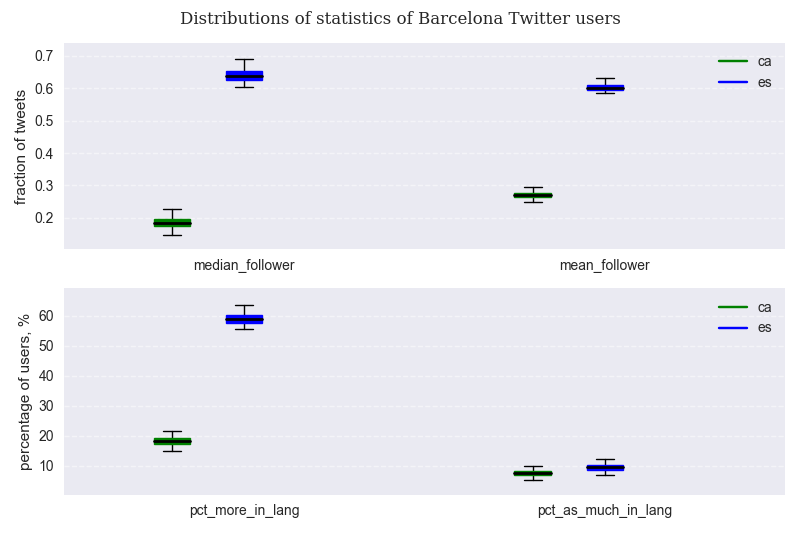
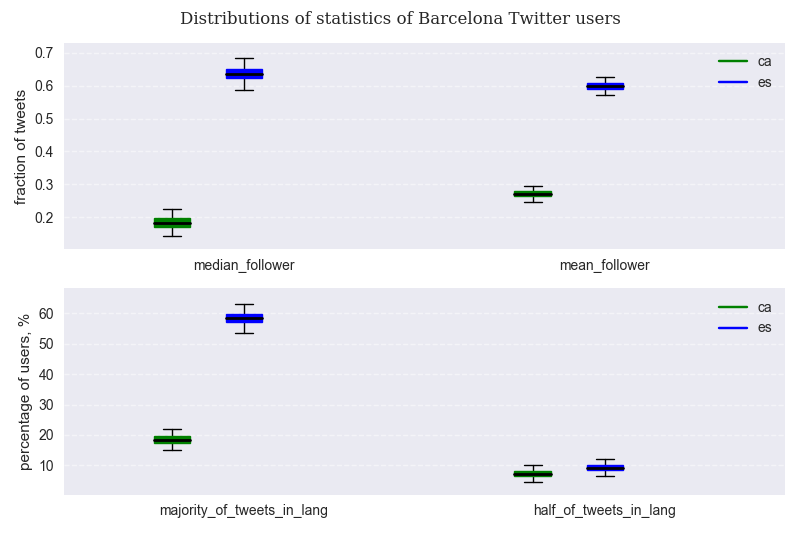
Update documentation

diff --git a/first-post.html b/first-post.html
@@ -48,6 +48,9 @@
 			<a href="https://pgervila.github.io/tag/bilingualism.html" rel="tag">bilingualism</a>
 		</span>
 		<span itemprop="keywords">
+			<a href="https://pgervila.github.io/tag/statistics.html" rel="tag">statistics</a>
+		</span>
+		<span itemprop="keywords">
 			<a href="https://pgervila.github.io/tag/barcelona.html" rel="tag">Barcelona</a>
 		</span>
 	</div>
@@ -1058,7 +1061,7 @@ h6:hover .anchor-link {
 </div>
 <div class="inner_cell">
 <div class="text_cell_render border-box-sizing rendered_html">
-<h2 id="Methodology">Methodology<a class="anchor-link" href="#Methodology">¶</a></h2><p>10 Twitter accounts that we deem representative of the cultural spectrum of the city of Barcelona are selected. The criteria used for the selection are the following:</p>
+<h2 id="Methodology">Methodology<a class="anchor-link" href="#Methodology">¶</a></h2><p>10 Twitter accounts that we deem representative of the cultural spectrum of the city of Barcelona are selected (we will refer to them as the 'root accounts'). The criteria used for the selection are the following:</p>
 <ul>
 <li>Accounts must be relevant ( hundreds of thousands of followers )</li>
 <li>Accounts must be related to the city of Barcelona as much as possible</li>
@@ -1101,7 +1104,7 @@ h6:hover .anchor-link {
 </div>
 <div class="inner_cell">
 <div class="text_cell_render border-box-sizing rendered_html">
-<h2 id="Twitter-language-settings-per-root-accounts">Twitter language settings per root accounts<a class="anchor-link" href="#Twitter-language-settings-per-root-accounts">¶</a></h2><p>A first indication of each language relative relevance is provided by the language settings of the account of each follower. In most cases, the default language ( worked out by algos based on computer settings and installations ) will be accepted by users unless they strongly prefer an alternative language. Therefore, in this case there is a strong bias towards the dominant official language: Spanish is still the default language for virtually all commercial computers or smartphones sold in Barcelona. Nevertheless, it is possible ( and simple ) to change the settings of a Twitter account to Catalan language.</p>
+<h2 id="Twitter-language-settings-per-root-account">Twitter language settings per root account<a class="anchor-link" href="#Twitter-language-settings-per-root-account">¶</a></h2><p>A first indication of each language relative relevance is provided by the language settings of the account of each follower. In most cases, the default language ( worked out by algos based on computer settings and installations ) will be accepted by users unless they strongly prefer an alternative language. Therefore, in this case there is a strong bias towards the dominant official language: Spanish is still the default language for virtually all commercial computers or smartphones sold in Barcelona. Nevertheless, it is possible ( and simple ) to change the settings of a Twitter account to Catalan language.</p>
 <p><img alt="" src="figures/Barcelona/lang_settings_in_Barcelona.png" style="width: 800px; height: auto; max-width: 100%;"/></p>
 <p>Results show that Spanish is by far the default language for most users from all accounts, with a peak of more than 80% for <strong>@hola</strong> followers and a minimum of almost 60% for <strong>@VilaWeb</strong> followers. Even in the case of <strong>@Vilaweb</strong>, only 3 users out of 10 on average have their language settings in Catalan. In some cases, we assume users are not even aware they can switch the setting. It's the language inertia so common in diglossic environments, where it is assumed that some activities or services are provided in one language only.</p>
 </div>
@@ -1111,7 +1114,7 @@ h6:hover .anchor-link {
 </div>
 <div class="inner_cell">
 <div class="text_cell_render border-box-sizing rendered_html">
-<h2 id="Percentage-of-tweets-in-each-language">Percentage of tweets in each language<a class="anchor-link" href="#Percentage-of-tweets-in-each-language">¶</a></h2><p>In order to have an idea of the relative weight of each language per account, since every follower will contribute with the same amount of tweets to the final sample per account, we can compute the percentage of tweets in each language per account by considering all tweets from the account followers and computing the ratio in each language.</p>
+<h2 id="Percentage-of-tweets-in-each-language-per-root-account">Percentage of tweets in each language per root account<a class="anchor-link" href="#Percentage-of-tweets-in-each-language-per-root-account">¶</a></h2><p>In order to have an idea of the relative weight of each language per account, since every follower will contribute with the same amount of tweets to the final sample per account, we can compute the percentage of tweets in each language per account by considering all tweets from the account followers and computing the ratio in each language.</p>
 <p><img alt="" src="figures/Barcelona/percentage_of_each_lang_per_account_in_Barcelona.png" style="width: 800px; height: auto; max-width: 100%;"/></p>
 <p>We observe that there is a higher proportion of tweets in Catalan as compared to the percentage of lang settings in Catalan. The conclusion is that some users that regularly tweet also in Catalan have their settings in Spanish ( a default option they feel comfortable enough with). One of the most telling results from this graph is that the majority of (re)tweets from followers of <strong>@VilaWeb</strong> (widely considered a Catalan nationalist publication) are in Spanish.</p>
 </div>
@@ -1121,10 +1124,10 @@ h6:hover .anchor-link {
 </div>
 <div class="inner_cell">
 <div class="text_cell_render border-box-sizing rendered_html">
-<h2 id="Language-choice-distribution-of-resident-followers-per-account">Language choice distribution of resident followers per account<a class="anchor-link" href="#Language-choice-distribution-of-resident-followers-per-account">¶</a></h2><p>Language choice percentages give us a general idea of language preference, but we have yet to explore how this preference is actually distributed among users. Do most followers (re)tweet in both languages for all accounts? What proportion of followers tweet in only or mostly one language for each account?</p>
+<h2 id="Language-choice-distribution-of-resident-followers-per-root-account">Language choice distribution of resident followers per root account<a class="anchor-link" href="#Language-choice-distribution-of-resident-followers-per-root-account">¶</a></h2><p>Language choice percentages give us a general idea of language preference, but we have yet to explore how this preference is actually distributed among users. Do most followers (re)tweet in both languages for all accounts? What proportion of followers tweet in only or mostly one language for each account?</p>
 <p>Since we have 40 classified tweets per selected follower, we can compute the ratio of tweets in each language per follower. After sorting all user ratios per language and per account, we can visualize box plots of the data. <a href="https://www.wellbeingatschool.org.nz/information-sheet/understanding-and-interpreting-box-plots">Box plots</a> are a great way to quickly visualize distributions. In a box plot, data is divided into 4 groups by its 3 quartiles. Each box contains 50% of the data as determined by the first and the third quartiles, and is divided in two parts by the <em>median</em> of the sorted data (the middle point from lower to higher value, and also its second quartile). The interval defined by the upper and lower whiskers contains almost all of the data, except for those values that are considered statistical outliers. We plot two box plots per account: one for Catalan ratios, another for Spanish ones ( English is not considered here ).</p>
 <p><img alt="" src="figures/Barcelona/lang_distribs_per_acc_in_Barcelona.png" style="width: 800px; height: auto; max-width: 100%;"/></p>
-<p>The first thing we should point out is how, for most accounts, the median values (black line inside boxes) are mostly far away from a balanced result ( 0.5 ), but especially for those that tweet in Spanish ( the leftmost four ). For these accounts, the distributions are very skewed, showing a relatively large number of users that tweet only or almost only in Spanish. Only in the case of <strong>@VilaWeb</strong> followers, a more even distribution for both languages is found. As a consequence, while the median follower of <strong>@hola</strong> does not tweet in Catalan at all, and that of <strong>@sport</strong> only 5% of the times, the median follower of <strong>@VilaWeb</strong> tweets almost 40% of the times in Catalan. It is interesting to notice that while users that tweet only or almost only in Catalan are non existent or considered outliers for the accounts that tweet in Spanish, users that tweet only or almost only in Spanish are not outliers for any of the accounts under consideration. In any case, all median followers (re)tweet more often in Spanish than in Catalan. In addition, they do so by very consistent margins, since all median followers (re)tweet more than half of the times in Spanish, even in the case of <strong>@VilaWeb</strong>.</p>
+<p>The first thing we should point out is how, for most accounts, the median values (black line inside boxes) are mostly far away from a balanced score ( 0.5 ), but especially for those that tweet in Spanish ( the leftmost four ). For these accounts, the distributions are very skewed, showing a relatively large proportion of users that tweet only or almost only in Spanish. Only in the case of <strong>@VilaWeb</strong> followers, a more even distribution for both languages is found. As a consequence, while the median follower of <strong>@hola</strong> does not tweet in Catalan at all, and that of <strong>@sport</strong> only 5% of the times, the median follower of <strong>@VilaWeb</strong> tweets almost 40% of the times in Catalan. It is interesting to notice that while users that tweet only or almost only in Catalan are non existent or considered outliers for the accounts that tweet in Spanish, users that tweet only or almost only in Spanish are not outliers for any of the accounts under consideration. In any case, all median followers (re)tweet more often in Spanish than in Catalan. In addition, they do so by very consistent margins, since all median followers (re)tweet more than half of the times in Spanish, even in the case of <strong>@VilaWeb</strong>.</p>
 <p>The described data can also be explored in numerical form thanks to the following tables, where 95% confidence intervals for both the mean and the median of each account and for each language are also provided:</p>
 <p><strong>Catalan language</strong>:
 <img alt="" class="center" src="figures/Barcelona/data_stats_cat_per_account_CA.png" style="width: 818px; height: auto; max-width: 100%;"/></p>
@@ -1138,10 +1141,11 @@ h6:hover .anchor-link {
 </div>
 <div class="inner_cell">
 <div class="text_cell_render border-box-sizing rendered_html">
-<h2 id="Language-choice-distribution-at-city-level:-the-weighted-sample-of-account-followers-(-stratified-sampling-)">Language choice distribution at city level: the weighted sample of account followers ( stratified sampling )<a class="anchor-link" href="#Language-choice-distribution-at-city-level:-the-weighted-sample-of-account-followers-(-stratified-sampling-)">¶</a></h2><p>Since we cannot possibly sample all accounts that have a link with the city of Barcelona, we have to make the hypothesis that the the chosen accounts are collectively exhaustive of the population of Barcelona-resident Twitter users (i.e., each Barcelona-resident Twitter user is also a follower of at least one of the chosen accounts). In order to draw statistically relevant linguistic conclusions for the city as a whole, we have to bring samples of followers of different accounts together, according to the relative relevance or weight of each account. This can be achieved through STRATIFIED SAMPLING: by sampling followers from each account, in such a way that the sample size for each account is proportional to the relative weight of the account in terms of the number of resident followers. We can then join all subsamples by considering unique agents only. Once the weighted sample of followers is calculated, we can associate observed lang proportions to each user and therefore describe the aggregated linguistic choices at city level. We can compute the resulting distribution for each language choice as well as estimate the average and the median of the weighted samples. 
-The resulting distributions for each language are visualized in the following figure. It is important to point out how different, even in the case of the weighted distribution, the Catalan and Spanish distributions are: whereas the mode of the Catalan use distribution occurs for proportions of tweets in that language between 0 and 5%, in the case of Spanish the mode is just on the opposite end; that is, for percentage of use comprised between 95% and 100%. In addition, whereas 30% of city users write less than 5% of tweets in Catalan, only 3% of users write less than 5% of tweets in Spanish. This means that a significant part of the population barely uses Catalan for tweeting, whereas Spanish - though in different degrees - is used by almost everybody in the city. On the other hand, only less than 20% of city residents write the majority of their tweets in Catalan, whereas approximately 60% of them tweet the majority of times in Spanish.</p>
+<h2 id="Language-choice-distribution-at-city-level:-the-weighted-sample-of-account-followers-(-stratified-sampling-)">Language choice distribution at city level: the weighted sample of account followers ( stratified sampling )<a class="anchor-link" href="#Language-choice-distribution-at-city-level:-the-weighted-sample-of-account-followers-(-stratified-sampling-)">¶</a></h2><p>In order to draw statistically relevant linguistic conclusions for the city as a whole, we have to bring samples of followers of different root accounts together, by weighing according to the relative size or weight of each account in terms of resident followers. Since we cannot possibly sample all accounts that have a link with the city of Barcelona, we have to make the hypothesis that the chosen root accounts are collectively exhaustive of the population of Barcelona-resident Twitter users (i.e., each Barcelona-resident Twitter user is also a follower of at least one of the chosen accounts. Given the criteria employed for the selection of the root accounts, we consider that this hypothesis is an acceptable approximation).</p>
+<p>We can then join all subsamples by considering unique agents only. Once the weighted sample of followers is calculated, we can associate their observed lang proportions to each user and describe the aggregated linguistic choices at city level. We can compute the resulting distribution for each language choice as well as estimate the average and the median of the weighted sample. 
+ The resulting distributions for each language are visualized in the following figure. It is important to point out how different, even in the case of the weighted distribution, the Catalan and Spanish distributions are: whereas the mode of the Catalan use distribution occurs for proportions of tweets in that language between 0 and 5%, in the case of Spanish the mode is just on the opposite end; that is, for percentage of use comprised between 95% and 100%. In addition, whereas 30% of city users write less than 5% of tweets in Catalan, only 3% of users write less than 5% of tweets in Spanish. This means that a significant part of the population barely uses Catalan for tweeting, whereas Spanish - though in different degrees - is used by almost everybody in the city. On the other hand, only less than 20% of city residents write the majority of their tweets in Catalan, whereas approximately 60% of them tweet the majority of times in Spanish.</p>
 <p><img alt="" src="figures/Barcelona/hist_lang_choice_weighted_sample_followers.png" style="width: 800px; height: auto; max-width: 100%;"/></p>
-<p>Notice how the values from the previous picture are just the result of specific sample averages, without any notion of value uncertainty: the shown distributions are derived from the <em>observed</em> account weights ( proportion of city residents per account) and the <em>observed</em> language proportions for each user as computed from unique samples each. In reality, both types of proportions are <strong>random variables</strong> for which we only have access to one realization. In order to have a reliable statistical view on the statistics at city level and define confidence intervals for average and median values at the aggregated level, we have to apply the <strong>central limit theorem</strong> to simulate random variable realizations a significant number of times, both for account weights and language proportions per user. We will simulate the value of accounts' relative weights a 100 times, and each user's language proportions another 100. This results in 10000 different <em>virtual</em> weighted samples, from which we can easily construct confidence intervals for the relevant statistics. See <a href="#Appendix_">appendix</a> for more details on the procedure.</p>
+<p>Notice how the values from the previous picture are just the result of specific sample averages, without any notion of value uncertainty: the shown distributions are derived from the <em>observed</em> account weights ( proportion of city residents per account) and the <em>observed</em> language proportions for each user as computed from unique samples each. In reality, both types of proportions are <strong>random variables</strong> for which we only have access to one realization. In order to have a reliable statistical view on the statistics at city level and define confidence intervals for average and median values at the aggregated level, we have to apply the <strong>central limit theorem</strong> to simulate random variable realizations a significant number of times, both for account weights and language proportions per user. We will simulate the value of accounts' relative weights a 100 times, and each user's language proportions another 100. This results in 10000 different <em>virtual</em> weighted samples, from which we can easily construct confidence intervals for the relevant statistics. See the <a href="#Appendix_">appendix</a> for more details on the procedure.</p>
 <p>Now we can plot the distributions of the median and mean users for each language, as well as that of the percentages of users that prefer a given language. Again, distributions are encapsulated in the form of box plots. The lower and upper box whiskers are set on the 1% and the 99% percentiles of each distribution: extreme values that fall beyond these limits are not shown.</p>
 <p><img alt="" src="figures/Barcelona/weighted_sample_indicators_distribs_in_Barcelona.png" style="width: 800px; height: auto; max-width: 100%;"/></p>
 <p>We observe that, from a Catalan-speaking perspective, the median follower from Barcelona is extremely unlikely (less than 0.1%) to tweet more than 23% of the times in Catalan. On the contrary, the median follower from a Spanish-speaking perspective is extremely unlikely to tweet less than 57% of the times in Spanish. More importantly, in an extreme best case scenario for Catalan, only about 23.5% of users will prefer this language to tweet, whereas even in an extreme worst case scenario for Spanish, 53% of Barcelona residents will prefer this language for their tweets. The discussed values can be more easily checked in the following table</p>
@@ -1180,7 +1184,8 @@ The resulting distributions for each language are visualized in the following fi
 </div>
 <div class="inner_cell">
 <div class="text_cell_render border-box-sizing rendered_html">
-<h1 id="Appendix"><em>Appendix</em><a class="anchor-link" href="#Appendix">¶</a></h1><h3 id="Computation-of-distribution-of-language-preference-for-root-accounts">Computation of distribution of language preference for root accounts<a class="anchor-link" href="#Computation-of-distribution-of-language-preference-for-root-accounts">¶</a></h3><ol>
+<h1 id="Appendix"><em>Appendix</em><a class="anchor-link" href="#Appendix">¶</a></h1><h3 id="Computation-of-the-distributions-of-language-choice-by-followers-of-root-accounts">Computation of the distributions of language choice by followers of root accounts<a class="anchor-link" href="#Computation-of-the-distributions-of-language-choice-by-followers-of-root-accounts">¶</a></h3><p>The following are the steps that have to be executed in order to obtain the distribution of language choice among followers of each root account.</p>
+<ol>
 <li><p>Select a root account</p>
 </li>
 <li><p>For the selected root account, obtain a sample of <em>at least</em> 100 city-resident followers with a sufficient number of (re)tweets and followers. It is crucial to ensure that the sample is indeed as random as possible. Since in the process of selecting tweets from users we will be forced to apply several filters in order to ensure reliability of the data, it is important to discuss the potential sources of bias one by one.</p>
@@ -1200,17 +1205,17 @@ The resulting distributions for each language are visualized in the following fi
 </li>
 <li><p>Each tweet from a given user and from a given language perspective is considered as a random Bernoulli variable. Therefore each list of tweets per follower of size n = 40 is a sample from a binomial distribution, in which <em>success</em> is a tweet written in a particular language $ L $ and <em>failure</em> any tweet written in another language. For each relevant follower $ i $ and each applicable language, compute the sample mean $\bar p_{i,L}$ ( an estimate of the success probability $p_{i,L}$). We call this sample mean the follower's <em>linguistic mean</em>. Each follower will have as many linguistic means as different languages are taken into consideration.</p>
 </li>
-<li><p>For each language, analyze the statisitcal properties of the distribution of the linguistic means of all root account considered followers.</p>
+<li><p>For each language, analyze the statisitcal properties of the distribution of the linguistic means of all considered root-account followers.</p>
 </li>
 <li><p>Repeat for all root accounts</p>
 </li>
 </ol>
-<h3 id="Sampling-simulation-of--root-account's-relative-weights-and-followers'-linguistic-proportions-to-compute-confidence-intervals-for-city-level-statistics">Sampling simulation of  root account's relative weights and followers' linguistic proportions to compute confidence intervals for city level statistics<a class="anchor-link" href="#Sampling-simulation-of--root-account's-relative-weights-and-followers'-linguistic-proportions-to-compute-confidence-intervals-for-city-level-statistics">¶</a></h3><p>In order to come up with useful results of linguistic choice at city level, we have to sample the individual linguistic choices from a population that is itself defined as the weighted average of the subpopulations of root account followers according to the relative relevance of each account. Computing statistics for such population using analytical formulas is much more complex than doing so by using computer random simulation.</p>
-<p>The advantage of using a statistics simulation is that we can consider each account's relative weight ( its relative proportion of resident followers ) and each user's language proportion as random variables that can be repeatedly sampled in order to construct confidence intervals for aggregated statistics such as the mean or the median.</p>
+<h3 id="Estimation-of-language-choice-confidence-intervals-at-city-level-by-resampling-of--groups-relative-sizes-and-followers'-linguistic-proportions">Estimation of language choice confidence intervals at city level by resampling of  groups relative sizes and followers' linguistic proportions<a class="anchor-link" href="#Estimation-of-language-choice-confidence-intervals-at-city-level-by-resampling-of--groups-relative-sizes-and-followers'-linguistic-proportions">¶</a></h3><p>In order to come up with useful results of linguistic choice at city level, we have to sample the individual linguistic choices from a population that is itself defined as the weighted average of the subpopulations of root account followers according to the relative size of each group. $$ \bar x_{city} = \sum_{g=1}^{10} \frac{N_{acc}}{N}\bar x_{acc}  $$</p>
+<p>Since both individual linguistic choices and accounts' relative sizes can only be estimated, computing statistics for such population using analytical formulas is much more complex than doing so by using computer simulation. The advantage of using a statistical simulation is that we can consider each account's relative size ( its relative proportion of resident followers ) and each user's language proportion as random variables that can be repeatedly resampled in order to construct confidence intervals for aggregated statistics such as the mean or the median.</p>
 <p>For each root account, we observe a given proportion of followers that are also Barcelona residents. This proportion is an <strong>estimate</strong> of the actual proportion of account followers that live in Barcelona ( the <strong>actual proportions</strong> are unknown to us since we only streamed a sample of the actual populations). Similarly, for each follower/user that is also a Barcelona resident, we observe a given proportion of tweets written in a given language out of a sample of n = 40 tweets: again, these proportions are <strong>estimates</strong> of the actual users' language preferences.</p>
-<p>A sample is typically considered to be large when $n &gt;= 30$. In our case, the distributions we are dealing with are actually Binomial distributions where the actual expectation value $p_i$ can only be estimated. Since in the case of the proportion of residents we have samples with hundreds or thousands of elements and in the case of proportions of language use we have $n = 40 $ tweets for each follower/user, we can apply the <strong>central limit theorem</strong>, that implies that the distribution of each proportion is well approximated by a normal distribution when $n$ is large. The normal distribution of each proportion will then be characterized by the observed proportion ( the sample mean $\bar Y_i = \bar p_i$ ) and the corresponding standard error computed as $SE(\bar p_i) = \frac{S_{y_i}}{\sqrt{n}} = \sqrt{\frac{\bar p_i * (1 - \bar p_i)}{n}}$ , where $S_{y_i}$ is the sample standard deviation. Therefore, instead of using the observed value of the proportion as a fixed value, we can consider it as the realization of a random variable with a normal distribution $$ \sigma(\bar p_i, {\frac{\bar p_i * (1 - \bar p_i)}{n}})$$</p>
+<p>A sample is typically considered to be large when $n &gt;= 30$. In our case, the distributions we are dealing with are actually Binomial distributions where the actual expectation value $p_i$ can only be estimated. Since in the case of the proportion of residents we have samples with hundreds or thousands of elements and in the case of proportions of language use we have $n = 40 $ tweets for each follower/user, we can apply the <strong>central limit theorem</strong>, that implies that the distribution of each proportion is well approximated by a normal distribution when $n$ is large. The normal distribution of each proportion will then be characterized by the observed proportion ( the sample mean $\bar Y_i = \bar p_i$ ) and the corresponding standard error computed as $SE(\bar p_i) = \frac{S_{y_i}}{\sqrt{n}} = \sqrt{\frac{\bar p_i * (1 - \bar p_i)}{n}}$ , where $S_{y_i}$ is the sample standard deviation. Therefore, instead of using the observed value of the proportion as a fixed value, we can consider it as the realization of a random variable with the following normal distribution $$ X \sim \mathcal{N}(\bar p_i, {\frac{\bar p_i * (1 - \bar p_i)}{n}}) $$</p>
 <p>As a consequence, the actual proportions will be within a confidence interval centered on the <em>observed</em> sample mean. We can construct 99% confidence intervals for the proportions using the standard error value by sampling as many times as needed the described normal distributions for the proportions of residents per account and for those of language use.</p>
-<p>THE ISSUE OF OVERLAPPING !! FOLLOWERS COMMON TO MORE ACCOUNTS WILL BE OVERREPRESENTED IN THE STRATIFIED SAMPLE !! THERE ARE NO SAMPLED USERS THAT ARE COMMON TO ALL ACCOUNTS, BUT THERE ARE MANY USERS COMMON TO TWO OR MORE ACCOUNTS !</p>
+<p>Notice that the subsampling process we have described is very similar to <a href="https://en.wikipedia.org/wiki/Stratified_sampling">stratified sampling</a>, but with a major difference: our strata are not <strong>mutually exclusive</strong>, since some followers are common to more than one root account. The consequence is that common followers will be overrepresented in the global sample, because they are more likely to be sampled. In order to avoid overrepresentation of common followers, the solution is to ensure they are sampled them only once. The algorithm to do that needs first to sort the group of followers from smaller to larger. we start by sampling from the smallest group of followers and remove all followers that are also followers of other accounts from all groups that have not yet been sampled (so that they are not more likely to be sampled than other followers). we then move to the second smallest group and repeat the same operation as before for all remaining groups. this way we ensure common followers will not be overrepresented in the  sample at city level. notice that larger groups will be effectively reduced in size after removing common users and their relative weight will have to be adapted accordingly (See 'compute_weighted_sample_users' method from ProcessTweetData class in Github <a href="https://github.com/pgervila/Explore_bilingualism_in_cities">repo</a></p>
 <p>To summarize, the steps are the following:</p>
 <ol>
 <li><p><strong>How to obtain a weighted sample of followers from all accounts</strong>. Each account will contribute with a sample of followers. A minimum size for the sample of account followers is considered for the least popular account. The remaining accounts' sample sizes are computed multiplying the minimum size by a factor that is the ratio of the estimated proportion of resident followers of each root account to the estimated proportion of resident followers of the least popular root account in the city.</p>
@@ -1223,17 +1228,6 @@ The resulting distributions for each language are visualized in the following fi
 <p>Since each simulation is taken as independently and identically distributed (i.i.d.), this results in 10000 different weighted samples per each language</p>
 </li>
 </ol>
-</div>
-</div>
-</div>
-<div class="cell border-box-sizing code_cell rendered">
-<div class="input">
-<div class="prompt input_prompt">In [ ]:</div>
-<div class="inner_cell">
-<div class="input_area">
-<div class=" highlight hl-ipython3"><pre><span></span> 
-</pre></div>
-</div>
 </div>
 </div>
 </div>

diff --git a/tag/statistics.html b/tag/statistics.html
@@ -1,0 +1,102 @@
+<!DOCTYPE html>
+<html lang="en">
+<head>
+	<meta charset="utf-8">
+	<title>statistics — CONTRASUBERNA</title>
+	<meta name="description" content="All posts which refer to tag statistics">
+	<meta name="author" content="Paolo Gervasoni">
+	<meta name="viewport" content="width=device-width, initial-scale=1.0">
+	<!-- Le HTML5 shim, for IE6-8 support of HTML elements -->
+	<!--[if lt IE 9]>
+		<script src="https://pgervila.github.io/theme/html5.js"></script>
+		<![endif]-->
+	<link href="https://pgervila.github.io/theme/css/ipython.css" rel="stylesheet">
+	<link href="//maxcdn.bootstrapcdn.com/bootstrap/3.2.0/css/bootstrap.min.css" rel="stylesheet">
+	<link href="//maxcdn.bootstrapcdn.com/font-awesome/4.1.0/css/font-awesome.min.css" rel="stylesheet">
+	<link href="//maxcdn.bootstrapcdn.com/bootswatch/3.2.0/simplex/bootstrap.min.css" rel="stylesheet">
+	<link href="https://pgervila.github.io/theme/css/local.css" rel="stylesheet">
+	<link href="https://pgervila.github.io/theme/css/pygments.css" rel="stylesheet">
+</head>
+<body>
+<div class="container">
+	<div class="page-header">
+		<h1><a href="https://pgervila.github.io/">CONTRASUBERNA</a>
+			<br>	</div>
+	<div class="row">
+		<div class="col-md-8 col-md-offset-2">
+<h1>Tag <small>statistics</small></h1>
+<table class="table">
+    <tbody>
+        <tr>
+        <td>25 Jun 2018</td>
+        <td><a href='https://pgervila.github.io/first-post.html'>Exploring language choice in Barcelona with Twitter and Python</a></td>
+        </tr>
+    </tbody>
+</table>
+		</div>
+	</div> 	<!-- <hr> -->
+</div> <!-- /container -->
+<footer class="aw-footer bg-danger">
+	<div class="container"> <!-- footer -->
+		<div class="row">
+			<div class="col-md-10 col-md-offset-1">
+				<div class="row">
+					<div class="col-md-3">
+						<h4>Navigation</h4>
+						<ul class="list-unstyled my-list-style">
+							<li><a href="https://pgervila.github.io">CONTRASUBERNA</a></li>
+							<li><a href="https://pgervila.github.io/feeds/all.atom.xml" type="application/atom+xml"><i class="fa fa-rss "></i> atom</a></li>
+						</ul>
+					</div>
+					<div class="col-md-3">
+						<h4>Author</h4>
+						<ul class="list-unstyled my-list-style">
+							<li><a href="#">You can add links in your config file</a></li>
+							<li><a href="#">Another social link</a></li>
+						</ul>
+					</div>
+					<div class="col-md-3">
+						<h4>Categories</h4>
+						<ul class="list-unstyled my-list-style">
+							<li><a href="https://pgervila.github.io/category/posts.html">posts (3)</a></li>
+						</ul>
+					</div>
+					<div class="col-md-3">
+						<h4>Links</h4>
+						<ul class="list-unstyled my-list-style">
+							<li><a href="http://getpelican.com/">Pelican</a></li>
+							<li><a href="http://python.org/">Python.org</a></li>
+							<li><a href="https://twitter.com/">Twitter</a></li>
+						</ul>
+					</div>
+				</div>
+			</div>
+		</div>
+	</div>
+</footer>
+<div class="container">
+	<div class="row">
+		<div class="col-md-12 text-center center-block aw-bottom">
+			<p>&copy; Paolo Gervasoni 2016</p>
+			<p>Powered by Pelican</p>
+		</div>
+	</div>
+</div>
+<!-- JavaScript -->
+<script src="https://code.jquery.com/jquery-2.1.1.min.js"></script>
+<script src="//maxcdn.bootstrapcdn.com/bootstrap/3.2.0/js/bootstrap.min.js"></script>
+<script type="text/javascript">
+jQuery(document).ready(function($) {
+	$("div.collapseheader").click(function () {
+		$header = $(this).children("span").first();
+		$codearea = $(this).children(".input_area");
+		$codearea.slideToggle(500, function () {
+			$header.text(function () {
+				return $codearea.is(":visible") ? "Collapse Code" : "Expand Code";
+			});
+		});
+	});
+});
+</script>
+</body>
+</html>

diff --git a/author/paolo-gervasoni.html b/author/paolo-gervasoni.html
@@ -69,7 +69,7 @@
 	<span itemprop="author" itemscope="" itemtype="http://schema.org/Person">
 		<span itemprop="name">Paolo Gervasoni</span>
 	</span>
-	<div class="summary"><p>Quantifying language preference through Twitter in Kiev</p></div>
+	<div class="summary"><p>Quantifying language choice in Kiev with Twitter</p></div>
 	Category:
 	<span itemprop="articleSection">
 		<a href="https://pgervila.github.io/category/posts.html" rel="category">posts</a>
@@ -97,7 +97,7 @@
 	<span itemprop="author" itemscope="" itemtype="http://schema.org/Person">
 		<span itemprop="name">Paolo Gervasoni</span>
 	</span>
-	<div class="summary"><p>Quantifying language preference through Twitter in Barcelona</p></div>
+	<div class="summary"><p>Quantifying language choice in Barcelona with Twitter</p></div>
 	Category:
 	<span itemprop="articleSection">
 		<a href="https://pgervila.github.io/category/posts.html" rel="category">posts</a>
@@ -109,6 +109,9 @@
 	</span>
 	<span itemprop="keywords">
 		<a href="https://pgervila.github.io/tag/bilingualism.html" rel="tag">bilingualism</a>
+	</span>
+	<span itemprop="keywords">
+		<a href="https://pgervila.github.io/tag/statistics.html" rel="tag">statistics</a>
 	</span>
 	<span itemprop="keywords">
 		<a href="https://pgervila.github.io/tag/barcelona.html" rel="tag">Barcelona</a>

diff --git a/index.html b/index.html
@@ -69,7 +69,7 @@
 	<span itemprop="author" itemscope="" itemtype="http://schema.org/Person">
 		<span itemprop="name">Paolo Gervasoni</span>
 	</span>
-	<div class="summary"><p>Quantifying language preference through Twitter in Kiev</p></div>
+	<div class="summary"><p>Quantifying language choice in Kiev with Twitter</p></div>
 	Category:
 	<span itemprop="articleSection">
 		<a href="https://pgervila.github.io/category/posts.html" rel="category">posts</a>
@@ -97,7 +97,7 @@
 	<span itemprop="author" itemscope="" itemtype="http://schema.org/Person">
 		<span itemprop="name">Paolo Gervasoni</span>
 	</span>
-	<div class="summary"><p>Quantifying language preference through Twitter in Barcelona</p></div>
+	<div class="summary"><p>Quantifying language choice in Barcelona with Twitter</p></div>
 	Category:
 	<span itemprop="articleSection">
 		<a href="https://pgervila.github.io/category/posts.html" rel="category">posts</a>
@@ -109,6 +109,9 @@
 	</span>
 	<span itemprop="keywords">
 		<a href="https://pgervila.github.io/tag/bilingualism.html" rel="tag">bilingualism</a>
+	</span>
+	<span itemprop="keywords">
+		<a href="https://pgervila.github.io/tag/statistics.html" rel="tag">statistics</a>
 	</span>
 	<span itemprop="keywords">
 		<a href="https://pgervila.github.io/tag/barcelona.html" rel="tag">Barcelona</a>
